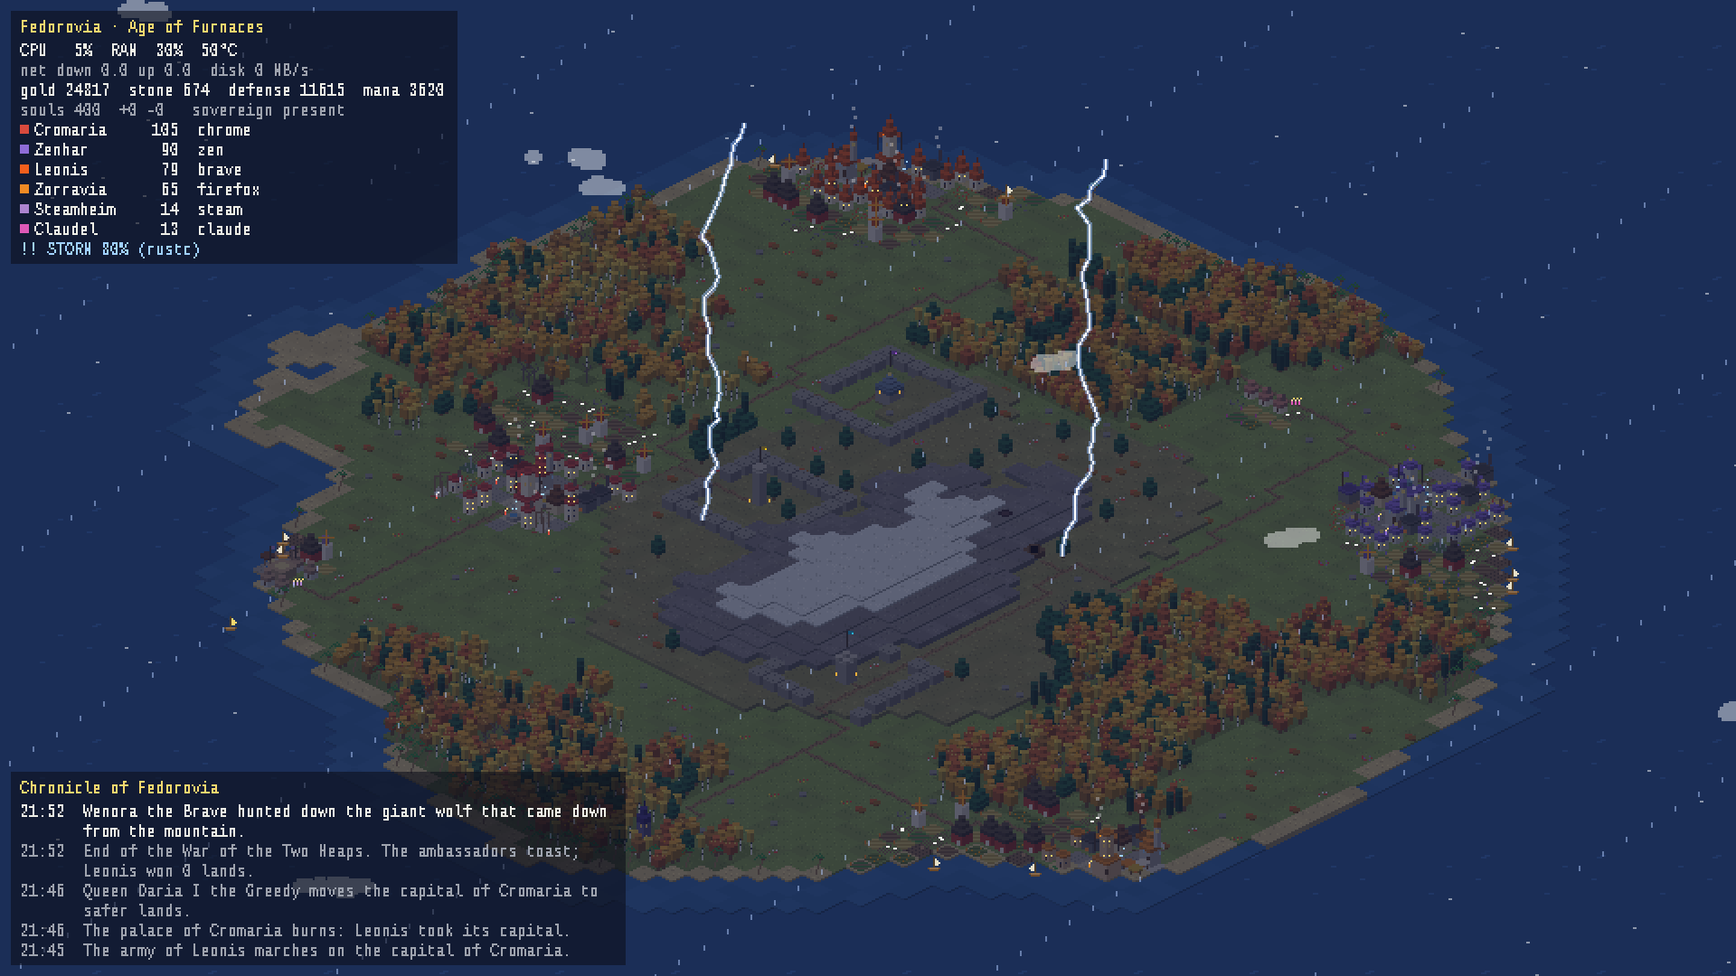
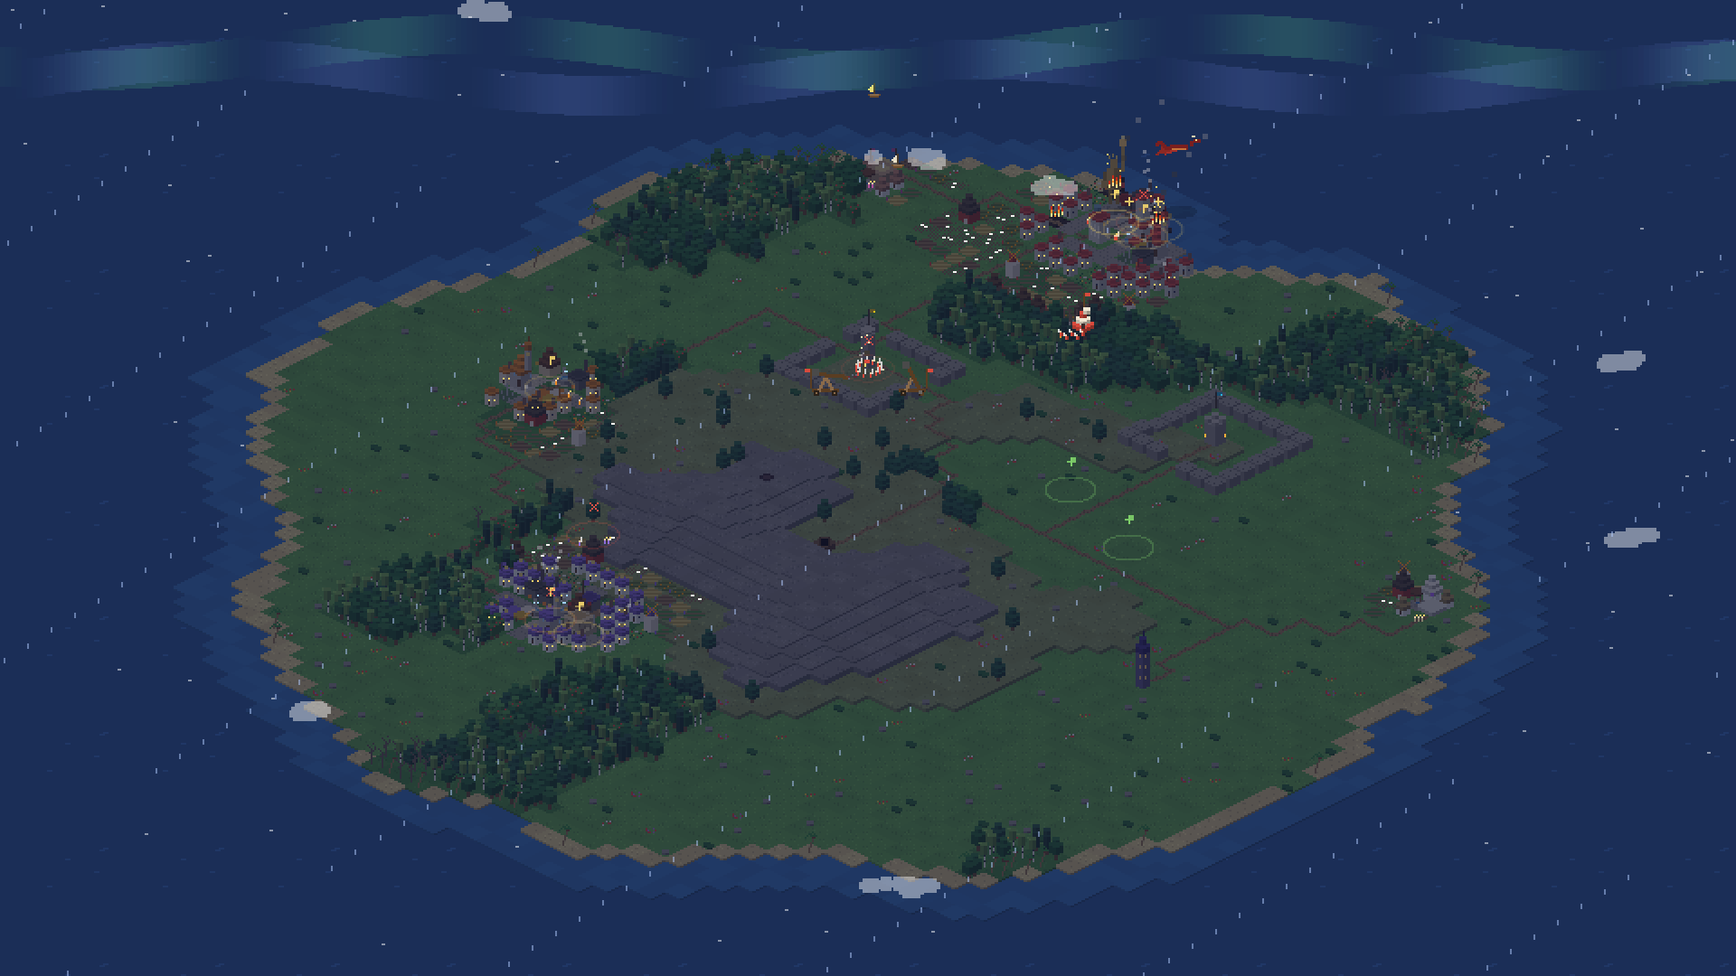
0.3.2: mini mode clicks work, always-visible update check, new screenshots
- Fix: the drag gesture started on every press was never ended, so after
  the first click the mini mode camera froze and news clicks did nothing.
  Now drag-end clears it (and a real drag still doesn't count as a click).
- The gold headline in the mini news strip is clickable too.
- Menu > World always shows 'Check for updates (vX)': checks now and, if
  there is a newer version, updates; otherwise says you're up to date.
- Wars are named after the region where the realms meet.
- Monuments no longer repeat a name.
- Map names avoid the panels.
- README and Pages: new screenshots from simulated worlds (overview EN/ES,
  menu, mini mode, city, night storm with aurora, winter), a siege GIF, a
  timelapse GIF and a share card; text updated (menu, powers, footprint).

diff --git a/docs/index.html b/docs/index.html
@@ -66,9 +66,9 @@
     <p class="tag">A pixel-art isometric live wallpaper where your computer is a kingdom.
       Browsers become empires, containers become citadels, compiling summons thunderstorms —
       and a procedural chronicle tells the story.</p>
-    <img class="shot" src="img/overview.png" alt="An isometric island with several walled cities, forests, roads and a mountain; a status panel, a chronicle and a powers bar overlay the map." width="1920" height="1080">
+    <img class="shot" src="img/overview.png" alt="An isometric island with several cities, forests, roads and a mountain, with realm and region names on the map; a status panel and a chronicle overlay it." width="1920" height="1080">
     <div class="install"><code>curl -fsSL https://raw.githubusercontent.com/rsmedrano-cloud/kernel-kingdom/main/install.sh | bash</code></div>
-    <p class="small">Linux · Wayland (COSMIC, Sway, Hyprland, KDE…) · window mode anywhere · English &amp; Español · MIT</p>
+    <p class="small">Linux · wallpaper on Wayland (COSMIC, Sway, Hyprland, KDE…) · window mode anywhere, X11 and 32-bit included · English &amp; Español · MIT</p>
     <div class="buttons">
       <a class="btn" href="https://github.com/rsmedrano-cloud/kernel-kingdom">GitHub</a>
       <a class="btn alt" href="#features">What it does</a>
@@ -95,7 +95,7 @@
 A thunderstorm, summoned by the smiths of rustc, falls upon Fedorovia (CPU 97%).
 The War of the Orphaned Tabs breaks out: Cromaria invades Zenhar.
 In the temple of Zorravia they worship Fireix, Mother of Threads.
-A ship flying the flag of Erigarth docks: ana comes ashore.
+A ship flying the flag of Erigarth docks: Aldor comes ashore.
 Loruin the Wise wrote a treatise on the art of freeing memory.
 The old god 7.2.8 has fallen; now they pray to Linux 7.2.13.</pre>
   </section>
@@ -106,6 +106,18 @@ The old god 7.2.8 has fallen; now they pray to Linux 7.2.13.</pre>
       razed and sacked capitals move elsewhere. In the evening your island looks different than it did in the morning.</p>
     <p class="small">Every day ends up as a story you can read or listen to:
       <a href="story-example.md">a full example day</a> (<a href="story-example.es.md">en castellano</a>).</p>
+    <div class="duo">
+      <figure><img class="shot" src="img/war.gif" alt="A siege: two trebuchets bombard a capital while houses burn and smoke rises" loading="lazy" width="1280" height="720"><figcaption>Wars you can see: armies, trebuchets, fires.</figcaption></figure>
+      <figure><img class="shot" src="img/timelapse.gif" alt="A political map of the island animating through a day as realms grow, clash and move" loading="lazy" width="740" height="406"><figcaption>The day's borders as a GIF.</figcaption></figure>
+    </div>
+  </section>
+
+  <section>
+    <h2>Keep it in a corner</h2>
+    <div class="duo">
+      <figure><img class="shot" src="img/mini.png" alt="Mini mode: a small window zoomed on a city with a dragon flying over it and a news strip at the bottom" loading="lazy" width="960" height="600"><figcaption>Mini mode: the camera flies to whatever is happening; click a headline to go there.</figcaption></figure>
+      <figure><img class="shot" src="img/share-card.png" alt="A share card: the whole island next to the day's headlines" loading="lazy" width="1200" height="675"><figcaption>Share the day as a card, without IPs or user names.</figcaption></figure>
+    </div>
   </section>
 
   <section>
@@ -118,7 +130,7 @@ The old god 7.2.8 has fallen; now they pray to Linux 7.2.13.</pre>
 
   <section>
     <h2>Zoom in, the city is alive</h2>
-    <img class="shot" src="img/city.png" alt="Close-up of a walled city: palace, paved square, houses with red roofs, workshops and windmills" loading="lazy" width="1920" height="1080">
+    <img class="shot" src="img/city.png" alt="Close-up of a city: palace, a giant bronze colossus, paved square, houses with red roofs and fields" loading="lazy" width="1920" height="1080">
     <p class="small">Villagers have jobs and walk the streets to work. Sprites are re-rendered at double resolution when you zoom.</p>
   </section>
 
@@ -130,6 +142,9 @@ The old god 7.2.8 has fallen; now they pray to Linux 7.2.13.</pre>
       <div class="card"><h3>Blessing &amp; Festival</h3><p>Gold for a realm, heroes for a party.</p></div>
       <div class="card"><h3>Forest &amp; Lighthouse</h3><p>Shape the island yourself.</p></div>
       <div class="card"><h3>Explorers &amp; sieges</h3><p>Expeditions head into the wild; big realms march on fortresses.</p></div>
+      <div class="card"><h3>Wonders</h3><p>Colossus, Colosseum, Observatory, Hanging Gardens — each with an effect.</p></div>
+      <div class="card"><h3>Dragon</h3><p>Flies in from the sea and sets a region ablaze.</p></div>
+      <div class="card"><h3>Walls &amp; Truce</h3><p>Fortify a capital or stop a war.</p></div>
     </div>
     <p class="small">The wallpaper is for watching; open <code>kernel-kingdom window</code> to act. Building takes people and time:
       workers walk from the nearest city to raise your lighthouse. Resources come from your system: territory makes gold,
@@ -141,12 +156,13 @@ The old god 7.2.8 has fallen; now they pray to Linux 7.2.13.</pre>
     <div class="grid">
       <div class="card"><h3>30 FPS cap</h3><p>About 6 FPS when nothing is happening.</p></div>
       <div class="card"><h3>Pauses itself</h3><p>0% CPU while windows cover the wallpaper (COSMIC).</p></div>
-      <div class="card"><h3>Tiny footprint</h3><p>~1–3% of one core while visible; the daemon ~2%.</p></div>
+      <div class="card"><h3>Tiny footprint</h3><p>~3% of one core for the window at rest; the daemon under 1%.</p></div>
     </div>
   </section>
 
   <footer>
-    <p><code>kernel-kingdom</code> · <code>kernel-kingdom window</code> · <code>kernel-kingdom chronicle</code> · <code>kernel-kingdom uninstall</code></p>
+    <p><code>kernel-kingdom</code> · <code>kernel-kingdom window --mini</code> · <code>kernel-kingdom timelapse</code> · <code>kernel-kingdom update</code> · <code>kernel-kingdom uninstall</code></p>
+    <p>Share your chronicles in <a href="https://github.com/rsmedrano-cloud/kernel-kingdom/discussions/categories/show-and-tell">Discussions › Show and tell</a></p>
     <p>MIT · <a href="https://github.com/rsmedrano-cloud/kernel-kingdom">source</a> · <a href="https://github.com/rsmedrano-cloud/kernel-kingdom/blob/main/README.es.md">en castellano</a></p>
   </footer>
 </div>

diff --git a/reino/render/app.py b/reino/render/app.py
@@ -125,6 +125,7 @@ class Wallpaper:
         self.zoom = 0                  # niveles de zoom sobre la escala base (solo en ventana)
         self._pointer = (0.0, 0.0)
         self._drag = None
+        self._dragged_at = 0.0
         self.paused = False
 
         self.win = Gtk.ApplicationWindow(application=app, title="kernel-kingdom")
@@ -162,6 +163,7 @@ class Wallpaper:
             drag = Gtk.GestureDrag(button=1)
             drag.connect("drag-begin", self._on_drag_begin)
             drag.connect("drag-update", self._on_drag_update)
+            drag.connect("drag-end", self._on_drag_end)
             self.view.add_controller(drag)
 
         self.painter.window_mode = not self.layered
@@ -241,8 +243,8 @@ class Wallpaper:
         return True
 
     def _on_click(self, gesture, n_press, x, y):
-        if self.paused or (self._drag and self._drag["moved"]):
-            return
+        if self.paused or (self._drag and self._drag["moved"]) or time.monotonic() - self._dragged_at < 0.3:
+            return                                  # fue un arrastre, no un clic
         now = time.monotonic()
         p = self.painter
         ux, uy = x / self._uis, y / self._uis
@@ -302,6 +304,9 @@ class Wallpaper:
         elif action[0] == "update":
             p.toggle_menu(False)
             self._do_update()
+        elif action[0] == "check_update":
+            p.toggle_menu(False)
+            self._check_update({}, manual=True)
         elif action[0] == "language":
             self._switch_language(now)
         elif action[0] == "timelapse":
@@ -419,20 +424,31 @@ class Wallpaper:
 
     # -- actualizaciones ---------------------------------------------------------
 
-    def _check_update(self, prefs: dict):
-        """Una consulta a GitHub cada 6 horas como mucho (sin trabar la ventana)."""
+    def _check_update(self, prefs: dict, manual: bool = False):
+        """Una consulta a GitHub cada 6 horas como mucho (sin trabar la ventana).
+        Pedida a mano desde el Menú: consulta ya y, si hay versión nueva, actualiza."""
         import threading
         from .. import __version__, update
 
         def show(version):
+            now = time.monotonic()
             if version and update._parse(version) > update._parse(__version__):
                 self.painter.update_available = version
                 self.painter._ui_dirty = True
-                self.painter.toast(ui("update.available", version=version), time.monotonic(), secs=8)
-                self._render()
+                if manual:
+                    self._do_update()
+                    return GLib.SOURCE_REMOVE
+                self.painter.toast(ui("update.available", version=version), now, secs=8)
+            elif manual:
+                self.painter.toast(ui("update.latest", version=__version__) if version else ui("update.offline"),
+                                   now, ok=bool(version), secs=6)
+            self._render()
             return GLib.SOURCE_REMOVE
 
-        if time.time() - prefs.get("update_checked", 0) < 6 * 3600:
+        if manual:
+            self.painter.toast(ui("update.checking"), time.monotonic(), secs=10)
+            self._render()
+        elif time.time() - prefs.get("update_checked", 0) < 6 * 3600:
             show(prefs.get("update_latest"))
             return
 
@@ -644,6 +660,11 @@ class Wallpaper:
     def _on_drag_begin(self, gesture, x, y):
         self._drag = {"start": (x, y), "pan": list(self.painter.pan), "moved": False}
 
+    def _on_drag_end(self, gesture, ox, oy):
+        if self._drag and self._drag["moved"]:
+            self._dragged_at = time.monotonic()
+        self._drag = None                           # sin esto la cámara del modo mini quedaba congelada
+
     def _on_drag_update(self, gesture, ox, oy):
         d = self._drag
         if d is None or (not d["moved"] and abs(ox) + abs(oy) < 5):
@@ -791,7 +812,7 @@ class Wallpaper:
         dt, self._last_frame = now - self._last_frame, now
         base = fit_scale(w, h, self.painter.content_size(), self.pixel_scale)
         scales = zoom_scales(base)
-        if self.painter.mini and not self._drag:
+        if self.painter.mini and not (self._drag and self._drag["moved"]):
             target = w / (TW * 14)                        # ~14 casillas de ancho, sea cual sea el tamaño
             self.zoom = min(range(1, len(scales)), key=lambda k: abs(scales[k] - target), default=0)
             self.painter.director_step(now, min(dt, 0.5))

diff --git a/reino/daemon/world.py b/reino/daemon/world.py
@@ -398,6 +398,15 @@ class World:
             used.add(name)
             self.regions.append({"name": name, "kind": kind, "c": list(self.xy(c)), "size": len(tiles)})
 
+    def _border_place(self, a: dict, b: dict) -> str:
+        """Región donde se tocan (o más se acercan) dos reinos: ahí se nombra la guerra."""
+        ta = [i for i, o in enumerate(self.owner) if o == a["id"]]
+        border = [i for i in ta if any(self.owner[j] == b["id"] for j in self.neighbors(i))]
+        if border:
+            return self._place_at(border[len(border) // 2])
+        bi = self.idx(*b["capital"])
+        return self._place_at(min(ta, key=lambda i: self._dist(i, b["capital"]), default=bi))
+
     def _place_at(self, i: int) -> str:
         """Nombre de la región de una casilla (para que la crónica coincida con el mapa)."""
         r = self.region[i] if 0 <= i < len(self.region) else -1
@@ -1469,7 +1478,8 @@ class World:
     def _declare_war(self, a: dict, b: dict):
         key = ":".join(map(str, sorted((a["id"], b["id"]))))
         reason = self.rng.choice(words("war_reasons")).format(place=self.lore.place(f"motivo:{self.tick}"))
-        war = self.wars[key] = {"name": self.lore.war_name(a, b, f"{key}:{self.tick}"), "a": a["id"], "b": b["id"],
+        name = self.lore.war_name(a, b, f"{key}:{self.tick}", place=self._border_place(a, b))
+        war = self.wars[key] = {"name": name, "a": a["id"], "b": b["id"],
                                 "start": self.tick, "last": self.tick, "score": {}, "front": [],
                                 "until": self.tick + self.rng.randint(300, 900)}   # 10 a 30 minutos
         self._say("guerra", "war.declare", b["capital"], a=a["realm"], b=b["realm"], reason=reason, war=war["name"],
@@ -1735,8 +1745,9 @@ class World:
         self.counters["conquests"] += len(lost)
         war = self.wars.get(key)
         if war is None:
-            war = self.wars[key] = {"name": self.lore.war_name(a, d, f"{key}:{self.tick}"),
-                                    "a": a["id"], "b": d["id"], "start": self.tick, "score": {}, "front": []}
+            name = self.lore.war_name(a, d, f"{key}:{self.tick}", place=self._border_place(a, d))
+            war = self.wars[key] = {"name": name, "a": a["id"], "b": d["id"], "start": self.tick, "score": {},
+                                    "front": []}
             ruler = self.lore.ruler_str(a["ruler"])
             self._say("guerra", "war.start", self.xy(lost[0]), war=war["name"], War=cap(war["name"]),
                       a=a["realm"], b=d["realm"], Ruler=cap(ruler))
@@ -1826,8 +1837,14 @@ class World:
                 f.setdefault("specials", {})["monument"] = plaza[0]
                 self.bld[plaza[0]] = B.MONUMENT
                 self.counters["monuments"] = done + 1
-                self._say("obra", "monument", self.xy(plaza[0]), realm=f["realm"],
-                          name=self.lore.monument(self.lore.ruler_str(f["ruler"]), rng),
+                used = self.counters.setdefault("monument_names", [])
+                name = self.lore.monument(self.lore.ruler_str(f["ruler"]), rng)
+                for _ in range(8):                         # que no se repita un monumento ya levantado
+                    if name not in used:
+                        break
+                    name = self.lore.monument(self.lore.ruler_str(f["ruler"]), rng)
+                used.append(name)
+                self._say("obra", "monument", self.xy(plaza[0]), realm=f["realm"], name=name,
                           gold=f"{self.resources['gold']:.0f}")
 
         # Resumen del día (al cambiar la fecha local)

diff --git a/reino/render/iso.py b/reino/render/iso.py
@@ -1833,7 +1833,8 @@ class Painter:
         self.ticker, self._ticker_lines = None, {}
         if self.mini:
             cap_ = self.director.get("caption") or ""
-            rows = [(cap_, GOLD, None)] if cap_ else []
+            cap_e = next((e for e in reversed(st.get("chronicle", [])[-60:]) if e["text"] == cap_ and "x" in e), None)
+            rows = [(cap_, GOLD, cap_e)] if cap_ else []
             recent = [e for e in reversed(st.get("chronicle", [])[-12:]) if "x" in e and e["text"] != cap_][:2]
             rows += [(e["text"], TEXT, e) for e in recent]
             if rows:
@@ -1981,6 +1982,9 @@ class Painter:
         add(ui("menu.world"), GOLD, None)
         if self.update_available:
             add(f"  * {ui('menu.update', version=self.update_available)}", rgb("#7fd06a"), ("update",))
+        else:
+            from .. import __version__
+            add(f"  {ui('menu.check_update', version=__version__)}", TEXT, ("check_update",))
         add(f"  [{'x' if self.wallpaper_on else ' '}] {ui('menu.wallpaper')}", TEXT, ("wallpaper",))
         add(f"  {ui('menu.share')}", TEXT, ("share",))
         add(f"  {ui('menu.timelapse')}", TEXT, ("timelapse",))
@@ -2385,7 +2389,16 @@ class Painter:
         st = self.state
         k = self.ui_ratio
         cam = getattr(self, "cam", (0, 0))
-        placed = []
+        placed = []                                        # los paneles también cuentan: nada de nombres debajo
+        if self.hud:
+            placed.append((6, 6, self.hud.get_width(), self.hud.get_height()))
+        for panel, at_bottom in ((self.chron, True), (self.ticker, True)):
+            if panel:
+                placed.append((6, fh - panel.get_height() - 22, panel.get_width(), panel.get_height() + 22))
+        if self.menu_button:
+            mw = max(self.menu_button.get_width(), self.menu_panel.get_width() if self.menu_panel else 0)
+            mh = self.menu_button.get_height() + (self.menu_panel.get_height() + 2 if self.menu_panel else 0)
+            placed.append((fw - mw - 6, 6, mw, mh))
 
         def put(text, wx, wy, col, size, bold):
             ctx.select_font_face(FONT, cairo.FONT_SLANT_NORMAL,

diff --git a/reino/daemon/lore.py b/reino/daemon/lore.py
@@ -217,10 +217,10 @@ class Lore:
         cults = words("cults")
         return cults[c["cult_idx"] % len(cults)].format(d=c["name"])
 
-    def war_name(self, a: dict, b: dict, key: str) -> str:
+    def war_name(self, a: dict, b: dict, key: str, place: str | None = None) -> str:
         rng = rng_for(self.seed, "war:" + key)
         return rng.choice(words("wars")).format(noun=rng.choice(words("war_nouns")), a=a["realm"], b=b["realm"],
-                                                place=self.place("frontera:" + key),
+                                                place=place or self.place("frontera:" + key),
                                                 group=rng.choice(words("war_groups")))
 
     def foreign_land(self, host: str) -> str:

diff --git a/reino/locales/es.py b/reino/locales/es.py
@@ -435,6 +435,10 @@ UI = {
     "timelapse.empty": "Todavía no hay fotos de hoy: el mundo saca una cada 10 minutos.",
     "timelapse.realms": "{n} reinos",
     "menu.labels": "Nombres en el mapa",
+    "menu.check_update": "Buscar actualizaciones (v{version})",
+    "update.checking": "Buscando actualizaciones...",
+    "update.latest": "Ya tenés la última versión ({version}).",
+    "update.offline": "No pude consultar GitHub (¿sin red?).",
     "menu.wallpaper": "Fondo de pantalla",
     "toast.wallpaper_on": "Fondo de pantalla activado ({monitors}). Arranca solo con la sesión.",
     "toast.wallpaper_off": "Fondo de pantalla desactivado. El mundo sigue corriendo.",

diff --git a/reino/locales/en.py b/reino/locales/en.py
@@ -424,6 +424,10 @@ UI = {
     "timelapse.empty": "No pictures from today yet: the world takes one every 10 minutes.",
     "timelapse.realms": "{n} realms",
     "menu.labels": "Names on the map",
+    "menu.check_update": "Check for updates (v{version})",
+    "update.checking": "Checking for updates...",
+    "update.latest": "You already have the latest version ({version}).",
+    "update.offline": "Couldn't reach GitHub (offline?).",
     "menu.wallpaper": "Wallpaper",
     "toast.wallpaper_on": "Wallpaper on ({monitors}). It starts with your session.",
     "toast.wallpaper_off": "Wallpaper off. The world keeps running.",

diff --git a/reino/__init__.py b/reino/__init__.py
@@ -1,2 +1,2 @@
 """Kernel Kingdom: live wallpaper / idle game alimentado por tu sistema."""
-__version__ = "0.3.1"
+__version__ = "0.3.2"

diff --git a/README.es.md b/README.es.md
@@ -76,6 +76,12 @@ a rearmar la ciudad en otro lado. El terreno también vive: los bosques avanzan,
 los aserraderos los talan, los incendios dejan pradera, la lava se endurece en
 colinas. Cada instalación tiene su propia isla.
 
+![un asedio: trebuchets bombardean una capital mientras arden las casas](docs/img/war.gif)
+
+Las fronteras de cada día, en un GIF (Menú > Mundo > Timelapse):
+
+![timelapse de un día: los reinos crecen, chocan y se mudan](docs/img/timelapse.gif)
+
 ## La historia del día
 
 Cada entrada de la crónica se archiva por día. A medianoche (o cuando apretás `e`
@@ -87,6 +93,11 @@ voz sintética. [Ejemplo de un día completo](docs/story-example.es.md).
 Además nacen **héroes** con nombre y carácter que hacen hazañas y mueren; los
 templos fundan **religiones** con su deidad; el tesoro paga **monumentos**. Los
 aldeanos tienen oficio y caminan por las calles al trabajo, al estilo WorldBox.
+
+**Compartir** convierte el día en una tarjeta (y un relato en Markdown), sin IPs ni
+nombres de usuario:
+
+![tarjeta para compartir: la isla junto a los titulares del día](docs/img/share-card.png)
 
 ## En el escritorio se mira, en la ventana se juega
 
@@ -127,6 +138,10 @@ El mapa también se mueve solo: **exploradores** que salen a lo salvaje y vuelve
 con hallazgos, **ejércitos en columna** cuando estalla una guerra, y reinos grandes
 que **sitian fortalezas** (si tenés defensa los muros resisten; si no, caen y hay
 saqueo).
+
+| El Menú | Modo mini |
+|---|---|
+| ![menú: qué ver, los poderes del Soberano y las acciones del mundo](docs/img/menu.png) | ![modo mini: cámara automática sobre una ciudad con un dragón y la tira de noticias](docs/img/mini.png) |
 
 ## Zoom
 

diff --git a/README.md b/README.md
@@ -75,6 +75,12 @@ capital it is **sacked and the court flees**, rebuilding the city elsewhere.
 The terrain lives too: forests spread, sawmills cut them, fires leave meadows,
 lava hardens into hills. Every install gets its own island.
 
+![a siege: trebuchets bombard a capital while houses burn](docs/img/war.gif)
+
+Every day's borders, as a GIF (Menu > World > Timelapse):
+
+![timelapse of a day: realms grow, clash and move](docs/img/timelapse.gif)
+
 ## The story of the day
 
 Every chronicle entry is archived per day. At midnight (or whenever you press
@@ -86,6 +92,10 @@ You get Markdown and plain text, ready to read aloud or feed to a TTS voice.
 On top of that, **heroes** with names and traits are born, do deeds and die;
 temples found **religions** with their own deities; treasuries pay for
 **monuments**. Villagers have jobs and walk the streets to work, WorldBox-style.
+
+**Share** turns the day into a card (and a Markdown story) without IPs or user names:
+
+![share card: the island next to the day's headlines](docs/img/share-card.png)
 
 ## Watch on the desktop, play in the window
 
@@ -125,6 +135,10 @@ The map moves on its own too: **explorers** head into the wild and come back wit
 finds, **armies march** in columns when a war breaks out, and big realms
 **besiege fortresses** (the walls hold if you have defense; if not, they fall and
 the town is looted).
+
+| The Menu | Mini mode |
+|---|---|
+| ![menu: view toggles, the Sovereign powers and world actions](docs/img/menu.png) | ![mini mode: an auto camera over a city with a dragon, news strip below](docs/img/mini.png) |
 
 ![night storm](docs/img/night-storm.png)
 
